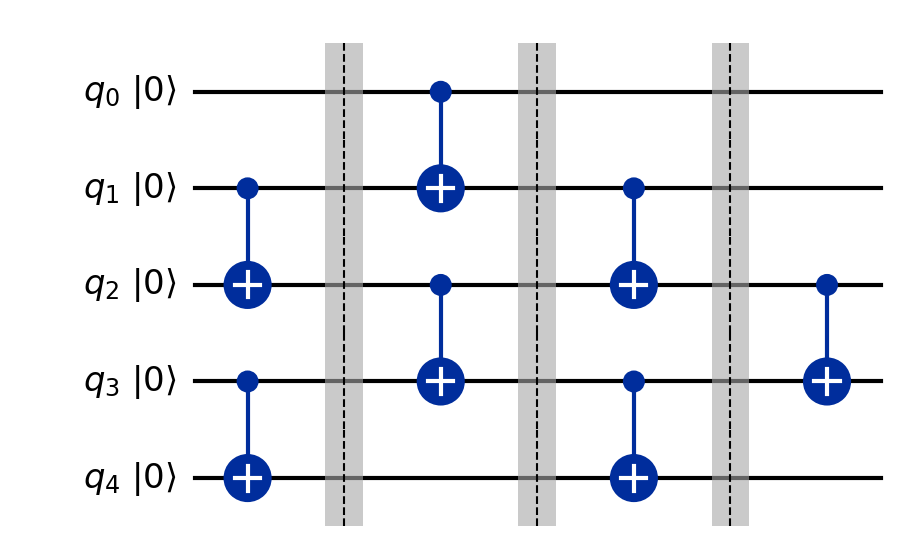
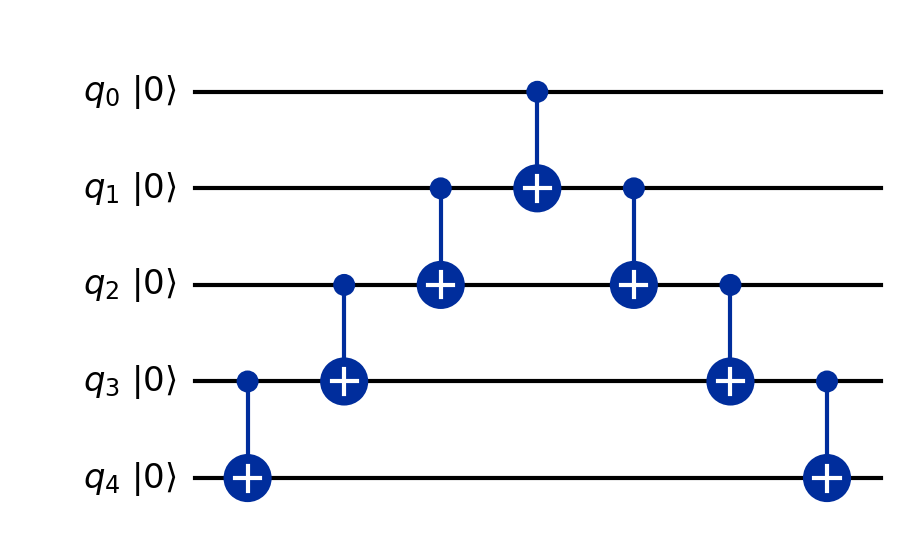
Fix 1.6 again

diff --git a/Problem1/Problem1-Solution.tex b/Problem1/Problem1-Solution.tex
@@ -301,6 +301,8 @@ depth, or both simultaneously.
 \caption{（方法二）Bell 基测量：$\mathrm{CNOT}(q_1\to q_2)$ 后 $H(q_1)$，再测两个比特；结果 $00$ 即投影到 $\ket{\Phi^+}$。}
 \end{figure}
 
+\textbf{辅助比特优化。} 方法一用了两个辅助比特分别测 $Z_1Z_2$、$X_1X_2$。由于二者对易，可\textbf{共用同一个辅助比特}：测完 $Z_1Z_2$ 读出后把辅助比特 reset 为 $\ket{0}$，再用它测 $X_1X_2$（中途测量与复位，mid-circuit measurement \& reset）。这把辅助比特数从 $2$ 降到 $1$，总 qubit 数 $4\to 3$。进一步，由于 $(+1,+1)$ 共同本征空间是一维的（即 $\ket{\Phi^+}$），方法二的 Bell 基测量配合 post-selection 与条件反计算（测得 $00$ 后再施 $H(q_1)\,\mathrm{CNOT}(q_1\to q_2)$）即可在\textbf{仅 $2$ 个数据比特、$0$ 辅助}的情况下把数据寄存器还原为 $\ket{\Phi^+}$，代价是成功率仅为 $|\braket{\Phi^+|\psi}|^2$。
+
 \hfill $\square$
 
 \medskip
@@ -365,28 +367,39 @@ depth, or both simultaneously.
 \hfill $\square$
 
 \medskip
-\noindent\textbf{Solution (d) (Optional).} 在仅允许最近邻 $\mathrm{CNOT}(q_i,q_{i+1})$ 的路径上把 $q_0$ 扇出到 $q_1,\dots,q_4$。$F_4$ 作为可逆线性映射 $x_i\mapsto x_i\oplus x_0$（$i\ge1$，$q_0$ 不变），下面给出一个\textbf{规模最小、深度最优}的幺正实现。
+\noindent\textbf{Solution (d) (Optional).} 在仅允许最近邻 $\mathrm{CNOT}(q_i,q_{i+1})$ 的路径上把 $q_0$ 扇出到 $q_1,\dots,q_4$。$F_4$ 作为可逆线性映射 $x_i\mapsto x_i\oplus x_0$（$i\ge1$，$q_0$ 不变）。由于是 $5$ 比特门，数据寄存器本身就是 $5$ 比特的下界；下面的幺正实现\textbf{不使用辅助比特}，并在规模上达到最优。
 
-\textbf{最优幺正实现。} 经穷举（在路径图的 CNOT 上做 BFS）得到的最小分解为 $7$ 个最近邻 CNOT，按不相交边并行后深度仅为 $4$：
+\textbf{规模最优幺正实现（阶梯/有限差分）。} 沿链下行做差分（telescope）、在 $q_0$ 注入 $x_0$、再上行重新累积，共用 $7$ 个最近邻 CNOT（深度 $7$）：
 \begin{equation*}
-\begin{array}{l}
-L_0:\ \mathrm{CNOT}(3{\to}4),\ \mathrm{CNOT}(1{\to}2)\\
-L_1:\ \mathrm{CNOT}(2{\to}3),\ \mathrm{CNOT}(0{\to}1)\\
-L_2:\ \mathrm{CNOT}(1{\to}2),\ \mathrm{CNOT}(3{\to}4)\\
-L_3:\ \mathrm{CNOT}(2{\to}3)
-\end{array}
+\mathrm{CNOT}(3{\to}4),\ \mathrm{CNOT}(2{\to}3),\ \mathrm{CNOT}(1{\to}2),\ \mathrm{CNOT}(0{\to}1),\ \mathrm{CNOT}(1{\to}2),\ \mathrm{CNOT}(2{\to}3),\ \mathrm{CNOT}(3{\to}4).
 \end{equation*}
-该序列已对全部 $2^5=32$ 个计算基输入数值验证，输出恰为 $q_i\mapsto x_i\oplus x_0$（$i=1,\dots,4$）、$q_0$ 保持 $x_0$。
+\textbf{正确性。} 下行后各比特取差分形式 $q_i\gets x_i\oplus x_{i-1}$（$i=1,\dots,4$，最右端 $q_4\gets x_4\oplus x_3$），中央的 $\mathrm{CNOT}(0{\to}1)$ 把 $q_1$ 变为 $x_1\oplus x_0$；随后上行 $\mathrm{CNOT}(1{\to}2),(2{\to}3),(3{\to}4)$ 把差分逐级累加，得到 $q_i=x_i\oplus x_0$（$i=1,\dots,4$），$q_0=x_0$。该映射已对全部 $2^5=32$ 个计算基输入数值验证（见 \texttt{problem1\_measurement.py} 的 (d) 段）。
 
 \begin{figure}[H]
 \centering
 \includegraphics[width=0.95\linewidth]{figs/q6_d_fanout_f4}
-\caption{$F_4$ 扇出的最优幺正实现：$7$ 个最近邻 CNOT，分 $4$ 层（屏障分隔）并行，深度 $4$。}
+\caption{$F_4$ 扇出的\textbf{规模最优}幺正实现：$7$ 个最近邻 CNOT（阶梯结构），深度 $7$。}
 \end{figure}
 
-\textbf{深度下界与最优性。} $x_0$ 的信息须从 $q_0$ 沿路径传到 $q_4$，路径距离为 $4$，而每层最近邻门至多把信息推进一跳，故\textbf{深度 $\ge 4$}。上式达到 $4$，因此在路径拓扑上深度最优；规模 $7$ 个 CNOT 亦为穷举最小。
+\textbf{最优性与深度下界（穷举证明）。} 把每个数据比特表示为原始输入在 $\mathbb F_2$ 上的线性型，对全部“有向匹配层”（一层内可并行的最近邻 CNOT 集合，共 $20$ 种）做分层 BFS：
+\begin{itemize}
+    \item \textbf{最小规模}：以单个 CNOT 为步的 BFS 给出最小 CNOT 数 $=7$，故上式规模最优；
+    \item \textbf{最小深度}：分层 BFS 表明深度 $\le 5$ 时至多到达 $36464$ 个态且不含 $F_4$ 目标态，深度 $=6$ 才首次可达。\textbf{故最小深度为 $6$，深度 $4$ 不可达。}
+\end{itemize}
+光锥论证只给出 $\ge 4$，但扇出还要求中间比特被“洗净”（仅添 $x_0$、不引入前缀异或），需要信号传到末端后再传回，因此实际下界更高。规模与深度不可同时取到各自最小：深度 $6$ 的实现需 $10$ 个 CNOT，例如
+\begin{equation*}
+\begin{array}{l}
+L_0:\ \mathrm{CNOT}(0{\to}1)\\
+L_1:\ \mathrm{CNOT}(1{\to}0),\ \mathrm{CNOT}(3{\to}4)\\
+L_2:\ \mathrm{CNOT}(0{\to}1),\ \mathrm{CNOT}(2{\to}3)\\
+L_3:\ \mathrm{CNOT}(1{\to}2)\\
+L_4:\ \mathrm{CNOT}(0{\to}1),\ \mathrm{CNOT}(2{\to}3)\\
+L_5:\ \mathrm{CNOT}(1{\to}0),\ \mathrm{CNOT}(3{\to}4)
+\end{array}
+\end{equation*}
+故 Pareto 前沿为 $(\text{规模},\text{深度})\in\{(7,7),(10,6)\}$：优化规模取阶梯实现，优化深度取上式。
 
-\textbf{用测量进一步降深度。} 若额外允许\textbf{预先共享纠缠资源}（沿路径排布的 Bell 对或 GHZ 猫态），可用量子传态思路在 $O(1)$ 深度内实现远距离 CNOT：以猫态为媒介对辅助比特做联合（贝尔型）测量并按结果作经典前馈 Pauli 修正，可把扇出深度降到与 $n$ 无关；代价是 $O(n)$ 个辅助比特与预共享纠缠（注意：仅做单比特 $X$ 基测量并不足以完成，需两比特联合测量）。在仅用最近邻 CNOT、无预共享纠缠的设定下，上述深度 $4$ 已为最优。
+\textbf{用测量进一步降深度。} 若额外允许\textbf{预先共享纠缠资源}（沿路径排布的 Bell 对或 GHZ 猫态），可用量子传态思路在 $O(1)$ 深度内实现远距离 CNOT：以猫态为媒介对辅助比特做联合（贝尔型）测量并按结果作经典前馈 Pauli 修正，可把扇出深度降到与 $n$ 无关；代价是 $O(n)$ 个辅助比特与预共享纠缠（注意：仅做单比特 $X$ 基测量并不足以完成，需两比特联合测量）。在仅用最近邻 CNOT、无预共享纠缠的设定下，光锥仍是根本约束：阶梯实现达到\textbf{规模最优}（$7$ 个 CNOT），而\textbf{深度最优为 $6$}（需 $10$ 个 CNOT）。
 
 \hfill $\square$
 

diff --git a/problem1_measurement.py b/problem1_measurement.py
@@ -265,6 +265,38 @@ for n in [2, 3, 4]:
 print("  (c) 通过" if ok_c else "  (c) 失败")
 
 # ============================================================
+# (d) F4 扇出（最近邻 CNOT）：验证规模最优的阶梯实现
+# ============================================================
+print("\n(d) F4 扇出：阶梯实现 7 个最近邻 CNOT（深度 7）")
+
+
+def cnot_seq_unitary(seq, n):
+    """seq = [(c, t), ...]；返回 n 比特上依次（按列表顺序）施加这些 CNOT 的整体酉矩阵。"""
+    U = np.eye(2 ** n, dtype=complex)
+    for (c, t) in seq:
+        U = CNOT(c, t, n) @ U
+    return U
+
+
+# 阶梯（规模最优，正确）：下行 telescope -> 在 q0 注入 x0 -> 上行累积
+staircase = [(3, 4), (2, 3), (1, 2), (0, 1), (1, 2), (2, 3), (3, 4)]
+# 原序列（错误，留作对照：它不实现 F4）
+old_wrong = [(3, 4), (1, 2), (2, 3), (0, 1), (1, 2), (3, 4), (2, 3)]
+
+ND = 5
+MASK = 0b11110                                        # 比特 1,2,3,4
+ok_d = True
+for name, seq in [("阶梯(正确)", staircase), ("原序列(错误, 对照)", old_wrong)]:
+    U = cnot_seq_unitary(seq, ND)
+    # |x> 映到的计算基 |y>；F4 要求 q0=x0 不变，q_i<-x_i xor x0（i>=1）
+    good = all(int(np.argmax(np.abs(U[:, x]))) == (x ^ ((x & 1) * MASK))
+               for x in range(2 ** ND))
+    print(f"  {name}：实现 F4？{'是' if good else '否'}")
+    if "正确" in name:
+        ok_d &= good                                  # 正确序列必须实现 F4
+print("  (d) 通过" if ok_d else "  (d) 失败")
+
+# ============================================================
 # (e) 计算 |<psi|phi>| 的 SWAP 检验
 # ============================================================
 print("\n(e) SWAP 检验： P(c=0) = (1 + |<ψ|φ>|²) / 2")
@@ -299,5 +331,5 @@ print("  (e) 通过" if ok_e and abs(p0_orth - 0.5) < 1e-9 and abs(p0_same - 1) 
       else "  (e) 失败")
 
 print("\n" + "=" * 64)
-print("总计：", "全部通过" if (ok_a and ok_b and ok_c and ok_e) else "存在失败")
+print("总计：", "全部通过" if (ok_a and ok_b and ok_c and ok_d and ok_e) else "存在失败")
 print("=" * 64)

diff --git a/problem1_circuits.py b/problem1_circuits.py
@@ -98,17 +98,22 @@ save(qc, "q6_c_ghz_to_single",
      "(c) GHZ$\\to$ single qubit: measure $q_1,q_2$ in $X$ basis; feed-forward $Z^s$ on $q_0$")
 
 # ============================================================
-# (d) 扇出门 F4：最优幺正实现（7 个最近邻 CNOT，深度 4）
+# (d) 扇出门 F4：规模最优幺正实现（7 个最近邻 CNOT，深度 7）
+#     阶梯（有限差分）结构：下行 telescope 成差分 -> 在 q0 注入 x0 -> 上行累积
+#     CNOT(3->4),(2->3),(1->2),(0->1),(1->2),(2->3),(3->4)
+#     规模 7 由门-BFS 证明最小；分层 BFS 证明最小深度=6（需 10 个 CNOT），深度 4 不可达。
 # ============================================================
 q = QuantumRegister(5, "q")
 qc = QuantumCircuit(q)
-# BFS 最小规模分解；按不相交边并行，屏障分隔 4 层
-qc.cx(q[3], q[4]); qc.cx(q[1], q[2]);   qc.barrier()
-qc.cx(q[2], q[3]); qc.cx(q[0], q[1]);   qc.barrier()
-qc.cx(q[1], q[2]); qc.cx(q[3], q[4]);   qc.barrier()
+qc.cx(q[3], q[4])
 qc.cx(q[2], q[3])
+qc.cx(q[1], q[2])
+qc.cx(q[0], q[1])
+qc.cx(q[1], q[2])
+qc.cx(q[2], q[3])
+qc.cx(q[3], q[4])
 save(qc, "q6_d_fanout_f4",
-     "(d) Optimal unitary fanout $F_4$: 7 nearest-neighbor CNOTs, depth 4")
+     "(d) Size-optimal unitary fanout $F_4$: 7 nearest-neighbor CNOTs (depth 7)")
 
 # ============================================================
 # (e1) SWAP 检验（高层：受控交换门）
